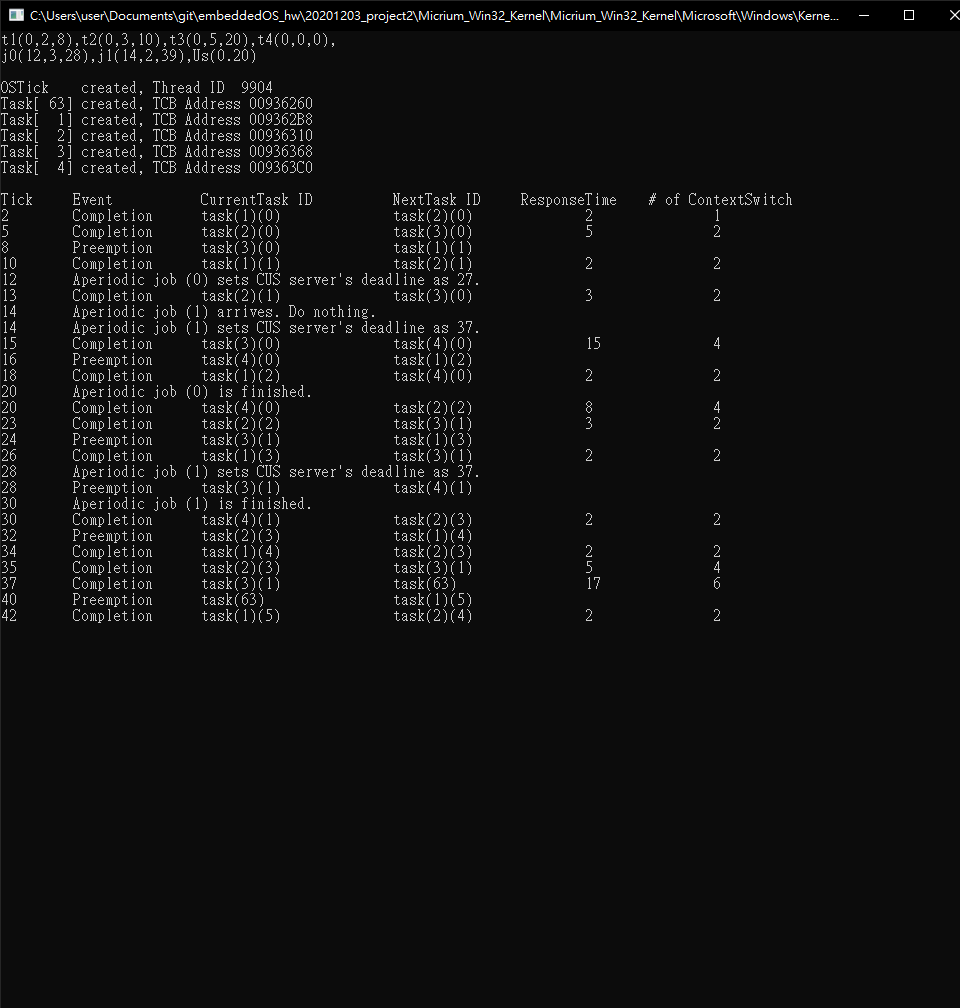
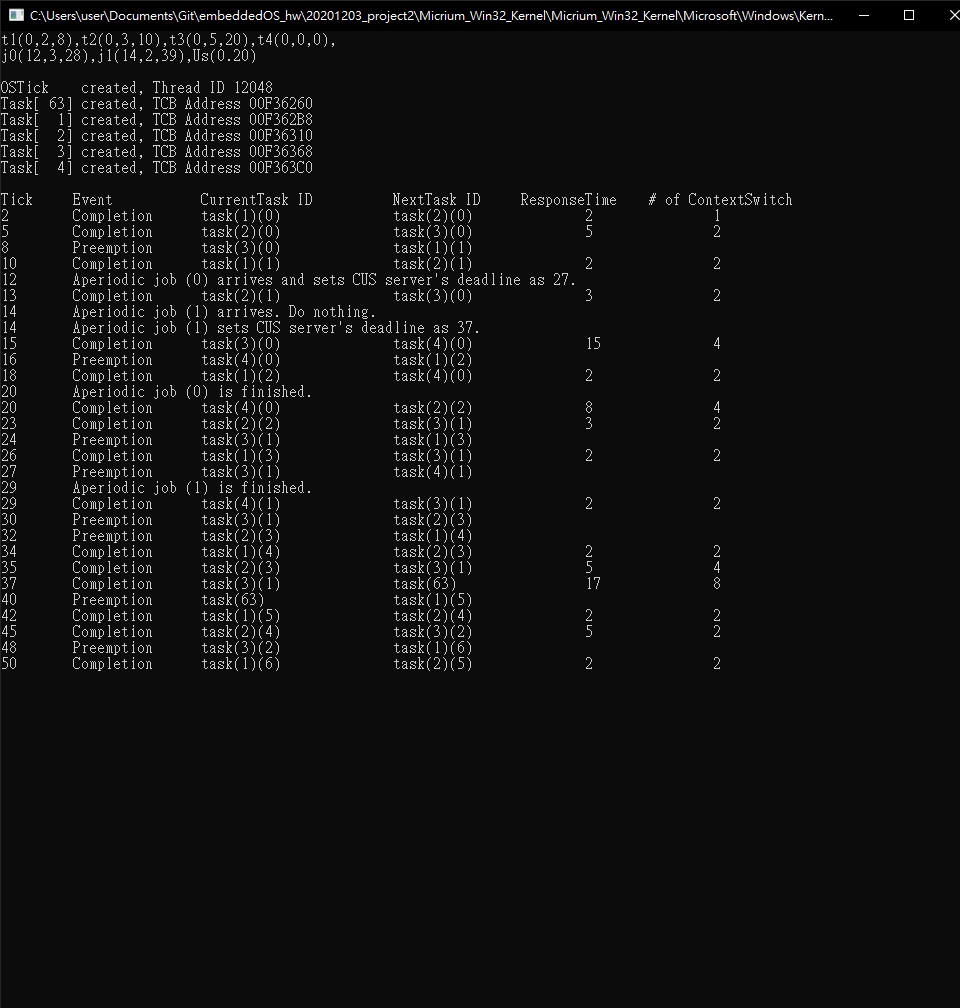
cus deadline bug

diff --git a/20201203_project2/Micrium_Win32_Kernel/Micrium_Win32_Kernel/Micrium/Software/uCOS-II/Source/os_core.c b/20201203_project2/Micrium_Win32_Kernel/Micrium_Win32_Kernel/Micrium/Software/uCOS-II/Source/os_core.c
@@ -2248,10 +2248,7 @@ void Kevin_OS_SchedNew(void) {
                 kevin_arr_task_periodic[i].work += kevin_arr_task_periodic[i].execution; // 發工作
                 kevin_arr_task_periodic[i].deadline = OSTime + kevin_arr_task_periodic[i].period; // 期限
             }
-            // debug print
-            // printf("%d \t task:%d arrival:%d work:%d\n",OSTime, i, (OSTime - kevin_arr_task_periodic[i].arrival) % kevin_arr_task_periodic[i].period,kevin_arr_task_periodic[i].work);
-
-        }
+        }   
     }
 
     // aperiodic deadline
@@ -2282,14 +2279,14 @@ void Kevin_OS_SchedNew(void) {
             kevin_arr_task_periodic[kevin_task_num].work = kevin_arr_aperiodic[i].execution;
             kevin_arr_task_periodic[kevin_task_num].deadline = kevin_arr_aperiodic[i].deadline;
             kevin_arr_task_periodic[kevin_task_num].aperiodic_job_num = i;
-            printf("%d \t Aperiodic job (%d) sets CUS server's deadline as %d.\n", OSTime, i, kevin_arr_aperiodic[i].deadline);
+            if(kevin_arr_aperiodic[i].arrival == OSTime)
+                printf("%d \t Aperiodic job (%d) arrives and sets CUS server's deadline as %d.\n", OSTime, i, kevin_arr_aperiodic[i].deadline);
         }
         else if(kevin_arr_aperiodic[i].arrival == OSTime)
         {
             printf("%d \t Aperiodic job (%d) arrives. Do nothing. \n",OSTime ,i);
             printf("%d \t Aperiodic job (%d) sets CUS server's deadline as %d.\n", OSTime, i, kevin_arr_aperiodic[i].deadline);
         }
-        
     }
     
     // find OSPrioHighRdy
@@ -2309,6 +2306,13 @@ void Kevin_OS_SchedNew(void) {
         }
     }
 
+    // debug print
+    // printf("%d h:%d \t", OSTime, OSPrioHighRdy);
+    // for(int i = 1; i <= kevin_task_num; i++)
+    // {
+    //     printf("t:%d w:%d r:%d d:%d \t", i, kevin_arr_task_periodic[i].work, kevin_arr_task_periodic[i].response, kevin_arr_task_periodic[i].deadline);
+    // }
+    // printf("\n");
 
     // check if same task gonna continue
     for(int i = 1; i <= kevin_task_num; i++)
@@ -2319,8 +2323,6 @@ void Kevin_OS_SchedNew(void) {
                     // kevin_arr_task_periodic[OSPrioHighRdy].job++; // 或是不列印純job++
         }
     }
-    // debug print
-    // printf("OS_SchedNew OSTime:%d OSPrioHighRdy:%d work:%d \n", OSTime, OSPrioHighRdy, kevin_arr_task_periodic[OSPrioHighRdy].work); // kevin
 }
 
 void Kevin_ContextSwitches(void) {
@@ -2402,7 +2404,7 @@ void Kevin_end(void){
             while (1);
         }
     }
-    if(kevin_aperiodic_num && kevin_arr_task_periodic[kevin_task_num].deadline == OSTime)
+    if(kevin_aperiodic_num && kevin_arr_task_periodic[kevin_task_num].deadline-1 == OSTime)
     {
         kevin_arr_task_periodic[kevin_task_num].arrival = 0;
         kevin_arr_task_periodic[kevin_task_num].period = 0;
